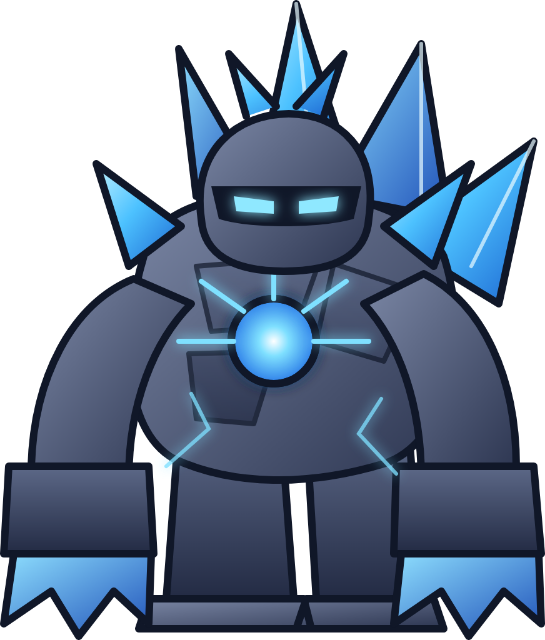
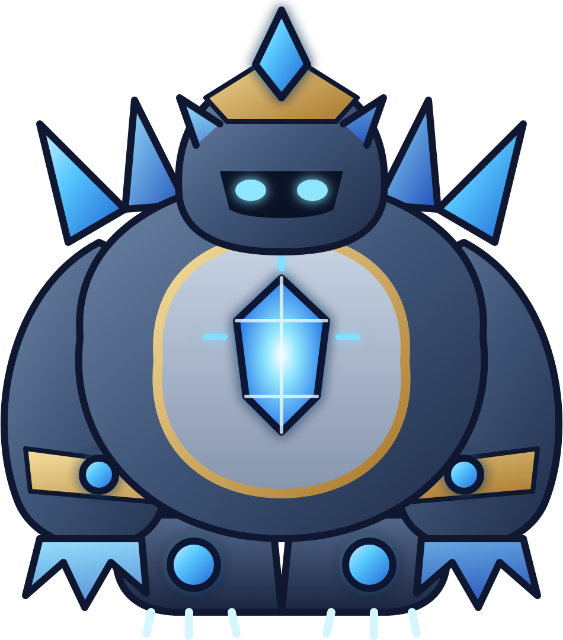
藍BUFF、紅BUFF 原創圖重畫：圓滾滾的水晶石魔像、銅甲熔爐石魔像
Claude-Session: https://claude.ai/code/session_01J1mi4tQsbQufTfnNbsrTar

diff --git a/CLAUDE.md b/CLAUDE.md
@@ -28,7 +28,7 @@
   - **藍BUFF／紅BUFF**（2026-11-13 咖哩要求）：兩隻 Lv.5 的小 BOSS（血 2500），規則跟大 BOSS 一樣。**擊殺（最後一擊）的玩家**獲得效果，**持續 1 小時**（`reward.seconds`）：藍BUFF＝**每秒回復 10 血**、紅BUFF＝**攻擊力加倍**。同一種效果再拿到會重新計時、不會疊加；兩種可以同時有。血條右邊會出現小圓章（藍「回」、紅「攻」）；藍BUFF 回血時每 2 秒跳一次小小的綠色「+N」。經驗值照大 BOSS 規則平分＋尾刀。
     - **預設禮物 100 鑽**：沒被指定的 100～199 鑽禮物會**隨機招換藍BUFF 或紅BUFF**（咖哩說兩隻預設都是 100 鑽，但同一個預設值只能對應一個禮物，所以做成隨機）；面板「招換 BOSS 的禮物」可以分別指定「藍BUFF」「紅BUFF」的專屬禮物。**因此原本「100 鑽以上＝技能」的預設改成 200 鑽以上**（想維持原樣，在面板指定技能的禮物即可）。
     - ⚠ **BUFF 只存在記憶體裡**（遊戲時間計時），重新整理網頁、清空場上就沒了，不會存進等級存檔／雲端。
-    - 圖也是 Claude 自己畫的原創向量圖（藍＝水晶石魔像、紅＝熔岩荊棘獸）。咖哩給的兩張參考圖是別款遊戲的截圖，沒有使用。
+    - 圖也是 Claude 自己畫的原創向量圖（2026-11-14 重畫：藍＝圓滾滾的水晶石魔像、紅＝銅甲熔爐石魔像，平頂頭盔臉、發光眼縫）。咖哩給過三批參考圖，**都沒有使用**：第一批是別款遊戲的截圖；第二批（藍水晶／紅熔爐的圓肚子石魔像）臉、耳朵、肚子的輪廓是寶可夢卡比獸（任天堂的角色）換皮，咖哩說「只是像而已」，但臉和輪廓確實就是它，所以只取「圓滾滾石魔像＋水晶／熔爐」的氛圍重新設計，不用貓耳、閉眼笑臉、獠牙。
   - **場上同時只有一隻**；還沒死又有人招換，就排隊（上限 20 隻），前一隻消失（倒下後 3 秒）自動叫出下一隻。畫面右上排行榜左邊有「BOSS 排隊」小標籤。一次連送多個招換禮物最多叫 3 隻。
   - **鎖定**：留言「@BOSS」或「@BOSS的名字」。玩家沒鎖定任何人時，有 60% 機率直接打 BOSS（`autoTargetChance`）。
   - **BOSS 出招**：在場上時**每 60 秒隨機打一位玩家，每 300 秒放一次全場攻擊**（2026-11-13 咖哩嫌原本 10／60 秒太快太強；2026-11-14 又嫌太痛，單體傷害倍率 3→1.5、全場 3→1，以呂布 1 級為例：單體約吃血量的 魔龍 7%／凱薩 11%／巨猿 17%，全場約 5%／8%／11%；兩者撞在同一秒時只放全場攻擊；BOSS 腳下有倒數字樣）。
